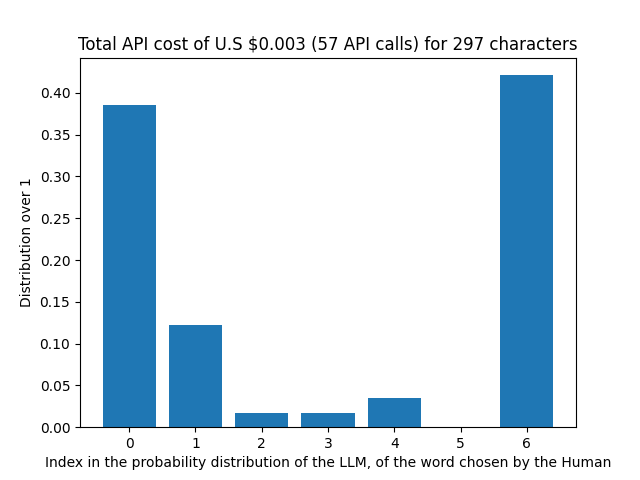
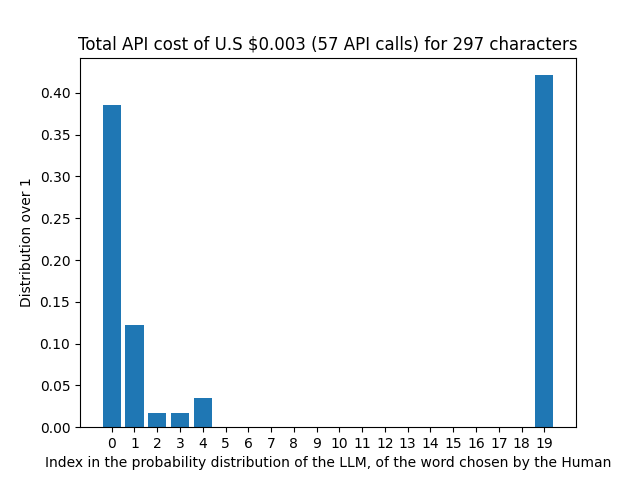
polish code base

Changed region(s): [[0.1562, 0.1562, 0.875, 0.9375]]

diff --git a/prototype.py b/prototype.py
@@ -1,84 +1,49 @@
 import tiktoken
-import sys
-
 from os import getenv
 from tqdm import tqdm
 from openai import OpenAI
 from dotenv import load_dotenv
-import matplotlib.pyplot as plt
+from utils import prompt_template, plot_results, parse_args, send_prompt_chat_completion, send_prompt_completion
 
-FILE_NAME = sys.argv[1]
-MODEL_ID = sys.argv[2]
-FREQUENCY_BINS = 21
-SEQUENCE_WINDOW_SIZE = 10
-
-input_tokens = output_tokens = 0
-price_per_token = {
-    "davinci-002": (0.000002, 0.000002),
-    "gpt-3.5-turbo-1106": (0.000001, 0.000001),
-    "babbage-002": (0.0000004, 0.0000004),
-    "gpt-4o": (0.000005, 0.000015),
-    "gpt-4-turbo": (0.00001, 0.00003),
-}
-encoder = tiktoken.encoding_for_model(MODEL_ID)
-
-
-def prompt_template(sequence):
-    return f"Complete the sentence, provide only a single word as output: {sequence}"
-
-with open(FILE_NAME, "r") as file:
-    lines = file.readlines()
-    raw = "".join(lines)
-
-raw_tokens = encoder.encode(raw)
 
 load_dotenv()
 GPT_API_KEY = getenv("GPT_API_KEY")
 
-client = OpenAI(api_key=GPT_API_KEY)
+def main():
+    input_tokens = output_tokens = 0
 
+    config = parse_args()
 
-# We only consider a probability distributions of 5 tokens, and we include a bin in case the token is not found
-word_selection_distribution = [0] * FREQUENCY_BINS
+    print(
+        f"Processing file '{config.input_file_name}' with model '{config.model_id}' and context window of {config.context_window}."
+    )
 
+    # Read and tokenize the Input file
+    encoder = tiktoken.encoding_for_model(config.model_id)
+    with open(config.input_file_name, "r") as file:
+        lines = file.readlines()
+        raw = "".join(lines)
+    raw_tokens = encoder.encode(raw)
 
-def iterative_word_predition(raw_tokens, encoder):
-    global input_tokens, output_tokens
+    client = OpenAI(api_key=GPT_API_KEY)
+
+    # We only consider a probability distributions corresponding to the number of
+    # specified Frequency Bins, and we include a bin in case the token is not found
+    word_selection_distribution = [0] * config.frequency_bins
+
     for i in tqdm(range(1, len(raw_tokens))):
-        if SEQUENCE_WINDOW_SIZE <= len(raw_tokens[:i]):
-            previous_sequence = encoder.decode(raw_tokens[i - SEQUENCE_WINDOW_SIZE : i])
+        if config.context_window <= len(raw_tokens[:i]):
+            previous_sequence = encoder.decode(raw_tokens[i - config.context_window : i])
         else:
             previous_sequence = encoder.decode(raw_tokens[:i])
         next_token = raw_tokens[i]
         input_prompt = prompt_template(previous_sequence)
         input_tokens += len(encoder.encode(input_prompt))
-        if MODEL_ID == "davinci-002":
-            response = client.completions.create(
-                model=MODEL_ID,
-                prompt=input_prompt,
-                max_tokens=1,
-                temperature=0.7,
-                seed=1234,
-                logprobs=FREQUENCY_BINS,
-            )
-            logprobs = response.choices[0].logprobs.top_logprobs
-            next_word_log_probs = logprobs[0]
-    
-        elif MODEL_ID == "gpt-3.5-turbo-1106":
-            response = client.chat.completions.create(
-                model="gpt-3.5-turbo-0125",
-                messages=[
-                    {"role": "system", "content": "Complete the following sentence using a single word."},
-                    {"role": "user", "content": "I am "},
-                ],
-                seed=1234,
-                n=1,
-                logprobs=True,
-                top_logprobs=20
-            )
-            next_word_log_probs = {}
-            for logprob in response.choices[0].logprobs.content[0].top_logprobs:
-                next_word_log_probs[logprob.token] = logprob.logprob
+        if config.model_id in ["davinci-002", "babbage-002"]:
+            next_word_log_probs = send_prompt_completion(client, config, input_prompt)
+
+        elif config.model_id in ["gpt-3.5-turbo-1106"]:
+            next_word_log_probs = send_prompt_chat_completion(client, config, input_prompt)
 
         output_tokens += 1
         # iterate through the ordered list of the most probable next words
@@ -86,7 +51,6 @@ def iterative_word_predition(raw_tokens, encoder):
         found_token = False
         for next_word_candidate in next_word_log_probs:
             index += 1
-            print(encoder.decode([next_token]), next_word_candidate)
             if [next_token] == encoder.encode(
                 next_word_candidate, allowed_special={"<|endoftext|>"}
             ):
@@ -98,36 +62,8 @@ def iterative_word_predition(raw_tokens, encoder):
             # place in the last density bin
             word_selection_distribution[-1] += 1
 
-
-iterative_word_predition(raw_tokens, encoder)
-print(word_selection_distribution)
+    plot_results(word_selection_distribution, input_tokens, output_tokens, config, raw)
 
 
-def normalize_list(data):
-    return [x / sum(data) for x in data]
-
-
-x_labels = list(range(len(word_selection_distribution)))
-
-# Plotting the histogram
-plt.bar(x_labels, normalize_list(word_selection_distribution), tick_label=x_labels)
-
-# Adding title and labels
-plt.xlabel(
-    "Index in the probability distribution of the LLM, of the word chosen by the Human"
-)
-plt.ylabel("Distribution over 1")
-request_cost = (input_tokens * price_per_token[MODEL_ID][0]) + (
-    output_tokens * price_per_token[MODEL_ID][1]
-)
-plt.title(
-    f"Total API cost of U.S ${round(request_cost, 3)} ({output_tokens} API calls) for {len(raw)} characters"
-)
-
-# Display the plot
-plt.savefig(f"./results_{MODEL_ID}/plot_{FILE_NAME.split('/')[-1].split('.')[0].split('_')[0]}_{FILE_NAME.split('/')[-1].split('.')[0].split('_')[1]}.png")
-
-# Save distribution to file for further analysis
-with open(f"./results_{MODEL_ID}/result_{FILE_NAME.split('/')[-1].split('.')[0].split('_')[0]}_{FILE_NAME.split('/')[-1].split('.')[0].split('_')[1]}", "w") as f:
-    for s in word_selection_distribution:
-        f.write(str(s) +"\n")
+if __name__ == "__main__":
+    main()

diff --git a/utils.py b/utils.py
@@ -1,0 +1,117 @@
+import matplotlib.pyplot as plt
+import argparse
+
+
+price_per_token = {
+    "davinci-002": (0.000002, 0.000002),
+    "gpt-3.5-turbo-1106": (0.000001, 0.000001),
+    "babbage-002": (0.0000004, 0.0000004),
+    "gpt-4o": (0.000005, 0.000015),
+    "gpt-4-turbo": (0.00001, 0.00003),
+}
+
+# Prompt older foundational models, which have been
+# trained to predict next sequence of tokens
+def send_prompt_completion(client, config, input_prompt):
+    response = client.completions.create(
+        model=config.model_id,
+        prompt=input_prompt,
+        max_tokens=1,
+        temperature=0.7,
+        seed=1234,
+        logprobs=config.frequency_bins,
+    )
+    logprobs = response.choices[0].logprobs.top_logprobs
+    return logprobs[0]
+
+# Prompt newer models, finetuned on chat instruction
+def send_prompt_chat_completion(client, config, input_prompt):
+    response = client.chat.completions.create(
+        model=config.model_id,
+        messages=[
+            {
+                "role": "system",
+                "content": "Complete the following sentence using a single word.",
+            },
+            {"role": "user", "content": input_prompt},
+        ],
+        seed=1234,
+        n=1,
+        logprobs=True,
+        top_logprobs=20,
+    )
+    next_word_log_probs = {}
+    for logprob in response.choices[0].logprobs.content[0].top_logprobs:
+        next_word_log_probs[logprob.token] = logprob.logprob
+    return next_word_log_probs
+
+def normalise_list(data):
+    return [x / sum(data) for x in data]
+
+def prompt_template(sequence):
+    return f"Complete the sentence, provide only a single word as output: {sequence}"
+
+def plot_results(word_selection_distribution, input_tokens, output_tokens, config, raw):
+    x_labels = list(range(len(word_selection_distribution)))
+
+    # Plotting the histogram
+    plt.bar(x_labels, normalise_list(word_selection_distribution), tick_label=x_labels)
+
+    # Adding title and labels
+    plt.xlabel(
+        "Index in the probability distribution of the LLM, of the word chosen by the Human"
+    )
+    plt.ylabel("Distribution over 1")
+    request_cost = (input_tokens * price_per_token[config.model_id][0]) + (
+        output_tokens * price_per_token[config.model_id][1]
+    )
+    plt.title(
+        f"Total API cost of U.S ${round(request_cost, 3)} ({output_tokens} API calls) for {len(raw)} characters"
+    )
+
+    # Display the plot
+    output_filename = config.input_file_name.split("/")[-1].split(".")[0].split("_")
+    plt.savefig(
+        f"./results_{config.model_id}/plot_{output_filename[0]}_{output_filename[1]}.png"
+    )
+
+    # Save distribution to file for further analysis
+    with open(
+        f"./results_{config.model_id}/result_{output_filename[0]}_{output_filename[1]}",
+        "w",
+    ) as f:
+        for s in word_selection_distribution:
+            f.write(str(s) + "\n")
+
+def parse_args():
+    parser = argparse.ArgumentParser(description="Watermarking LLMs.")
+    parser.add_argument(
+        "input_file_name", type=str, help="Path to the input text file."
+    )
+    parser.add_argument(
+        "model_id",
+        metavar="open_ai_model_id",
+        type=str,
+        choices=["davinci-002", "babbage-002", "gpt-3.5-turbo-1106"],
+        help="The model ID to be used as specified by the OPEN AI API documentation: https://platform.openai.com/docs/models. Supported models are 'davinci-002' and 'baggage'.",
+    )
+    parser.add_argument(
+        "context_window",
+        metavar="context_window",
+        type=int,
+        action="store",
+        default=10,
+        help="The context window size (an integer). Defaults to 10.",
+        nargs="?",
+    )
+
+    parser.add_argument(
+        "frequency_bins",
+        metavar="frequency_bins",
+        type=int,
+        action="store",
+        default=20,
+        help="The number of bins to consider in the frequency distribution. Defaults to 20.",
+        nargs="?",
+    )
+    return parser.parse_args()

diff --git a/README.md b/README.md
@@ -25,7 +25,7 @@ echo GPT_API_KEY="<OPENAI_API_KEY>" > .env
 3. Execute the program by defining the Text file you wish to evaluate and the model for which you want to compare the token selection distribution
 
 ```bash
-python prototype.py ./data/human-input-small.txt "davinci-002"
+python prototype.py ./data/human_input-small.txt "davinci-002" 10
 ```
 
 ## Examples
